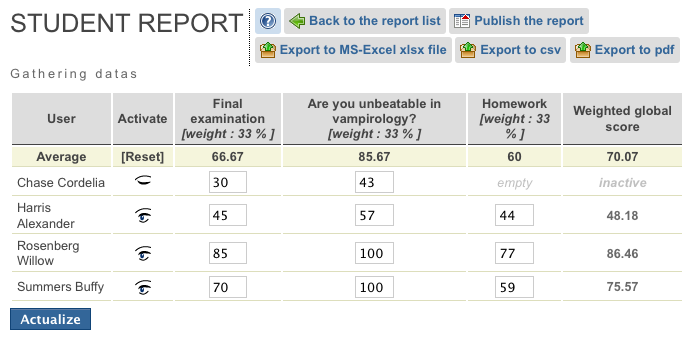
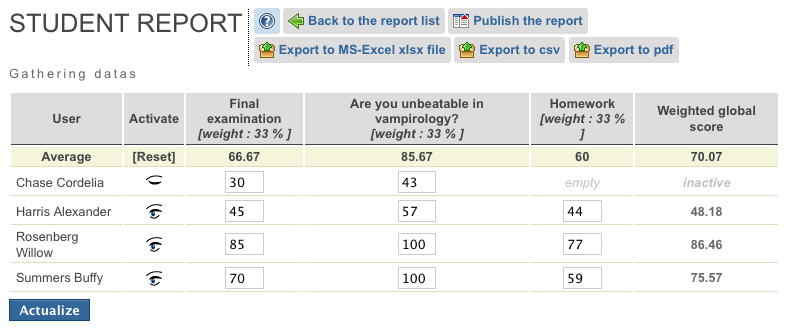
-flush datas in cache when regerating a new report -changed a scrrenshot -updated version

diff --git a/modules/UCREPORT/report.php b/modules/UCREPORT/report.php
@@ -2,7 +2,7 @@
 /**
  * Student Report for Claroline
  *
- * @version     UCREPORT 2.2.2 $Revision$ - Claroline 1.10
+ * @version     UCREPORT 2.4.0 $Revision$ - Claroline 1.10
  * @copyright   2001-2010 Universite catholique de Louvain (UCL)
  * @license     http://www.gnu.org/copyleft/gpl.html (GPL) GENERAL PUBLIC LICENSE
  * @package     UCREPORT
@@ -180,6 +180,7 @@ try
             }
             
             $reset = $cmd == 'exReset'
+                  || $cmd == 'exGenerate'
                   || ! isset( $_SESSION[ 'item_list' ] )
                   || ! isset( $_SESSION[ 'user_list' ] );
             

diff --git a/modules/UCREPORT/myreport.php b/modules/UCREPORT/myreport.php
@@ -2,7 +2,7 @@
 /**
  * Student Report for Claroline
  *
- * @version     UCREPORT 2.1.0 $Revision$ - Claroline 1.9
+ * @version     UCREPORT 2.4.0 $Revision$ - Claroline 1.9
  * @copyright   2001-2010 Universite catholique de Louvain (UCL)
  * @license     http://www.gnu.org/copyleft/gpl.html (GPL) GENERAL PUBLIC LICENSE
  * @package     UCREPORT
